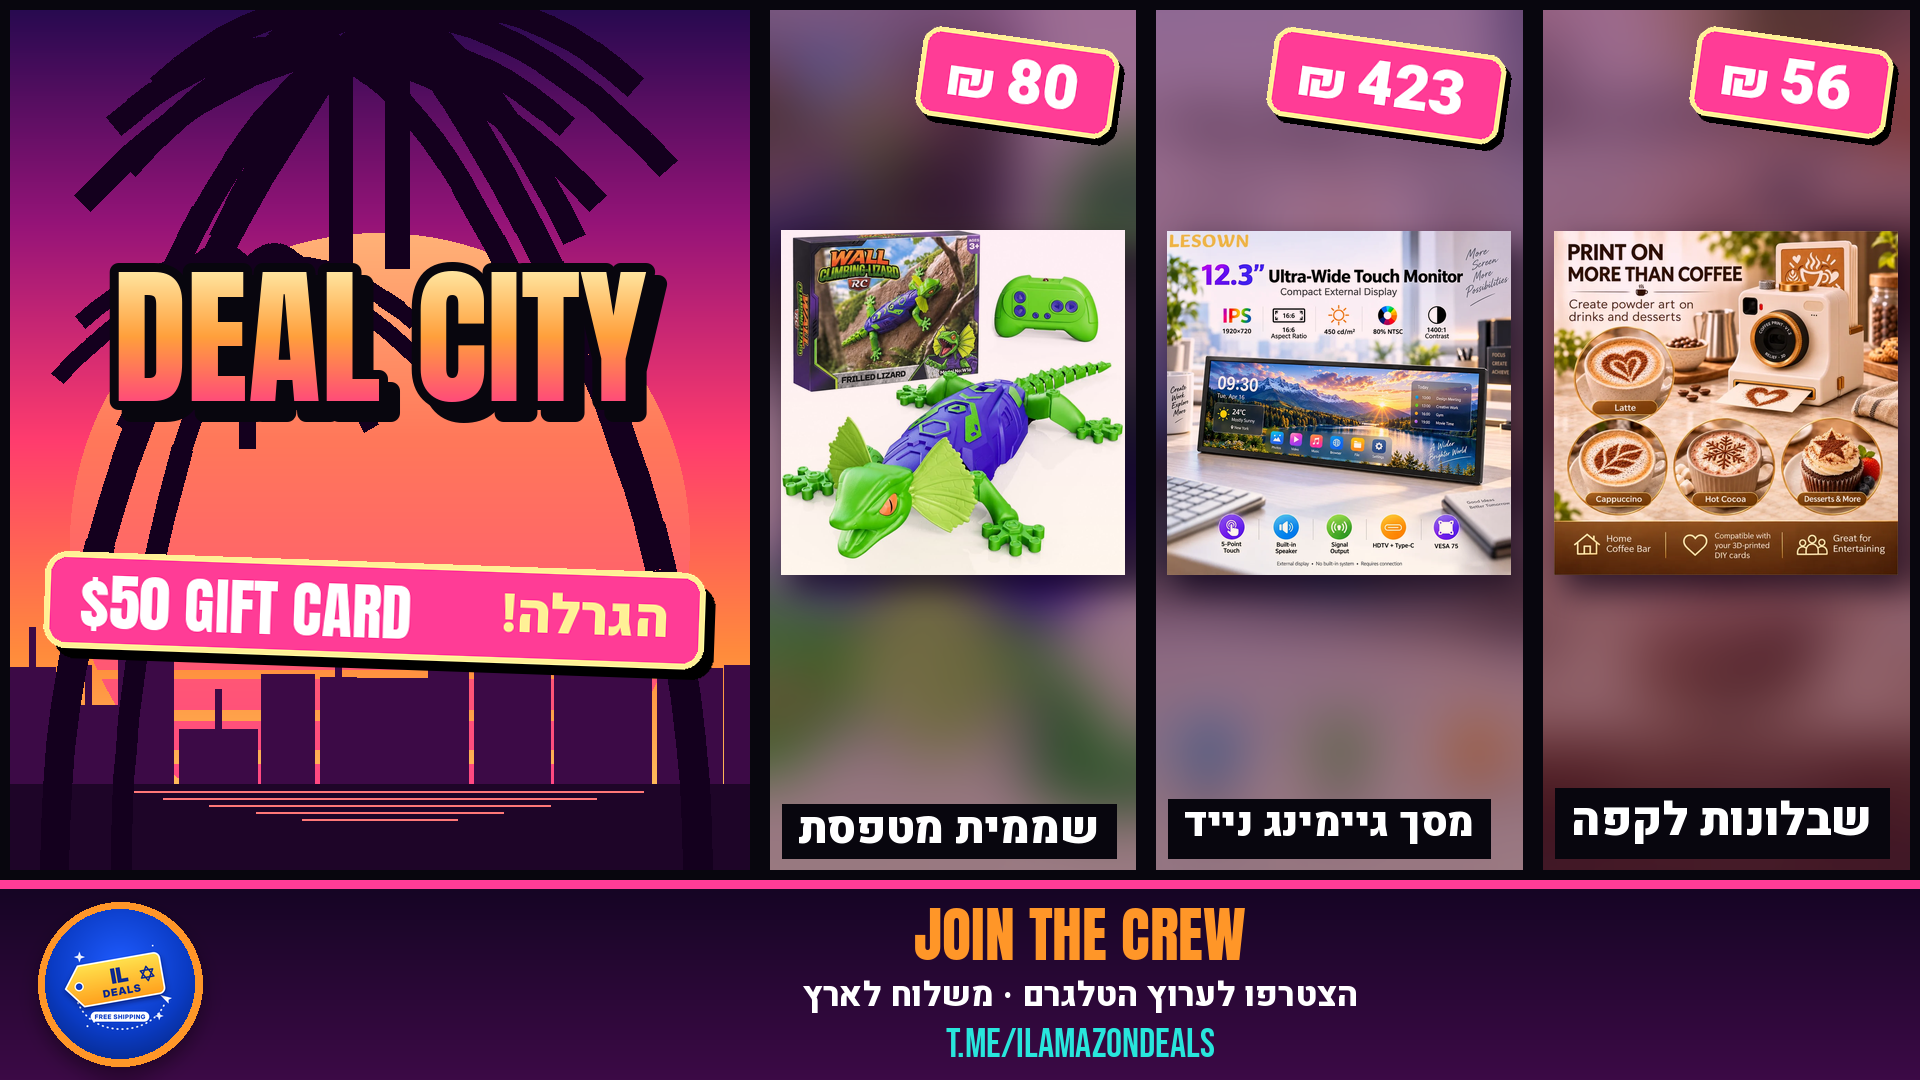
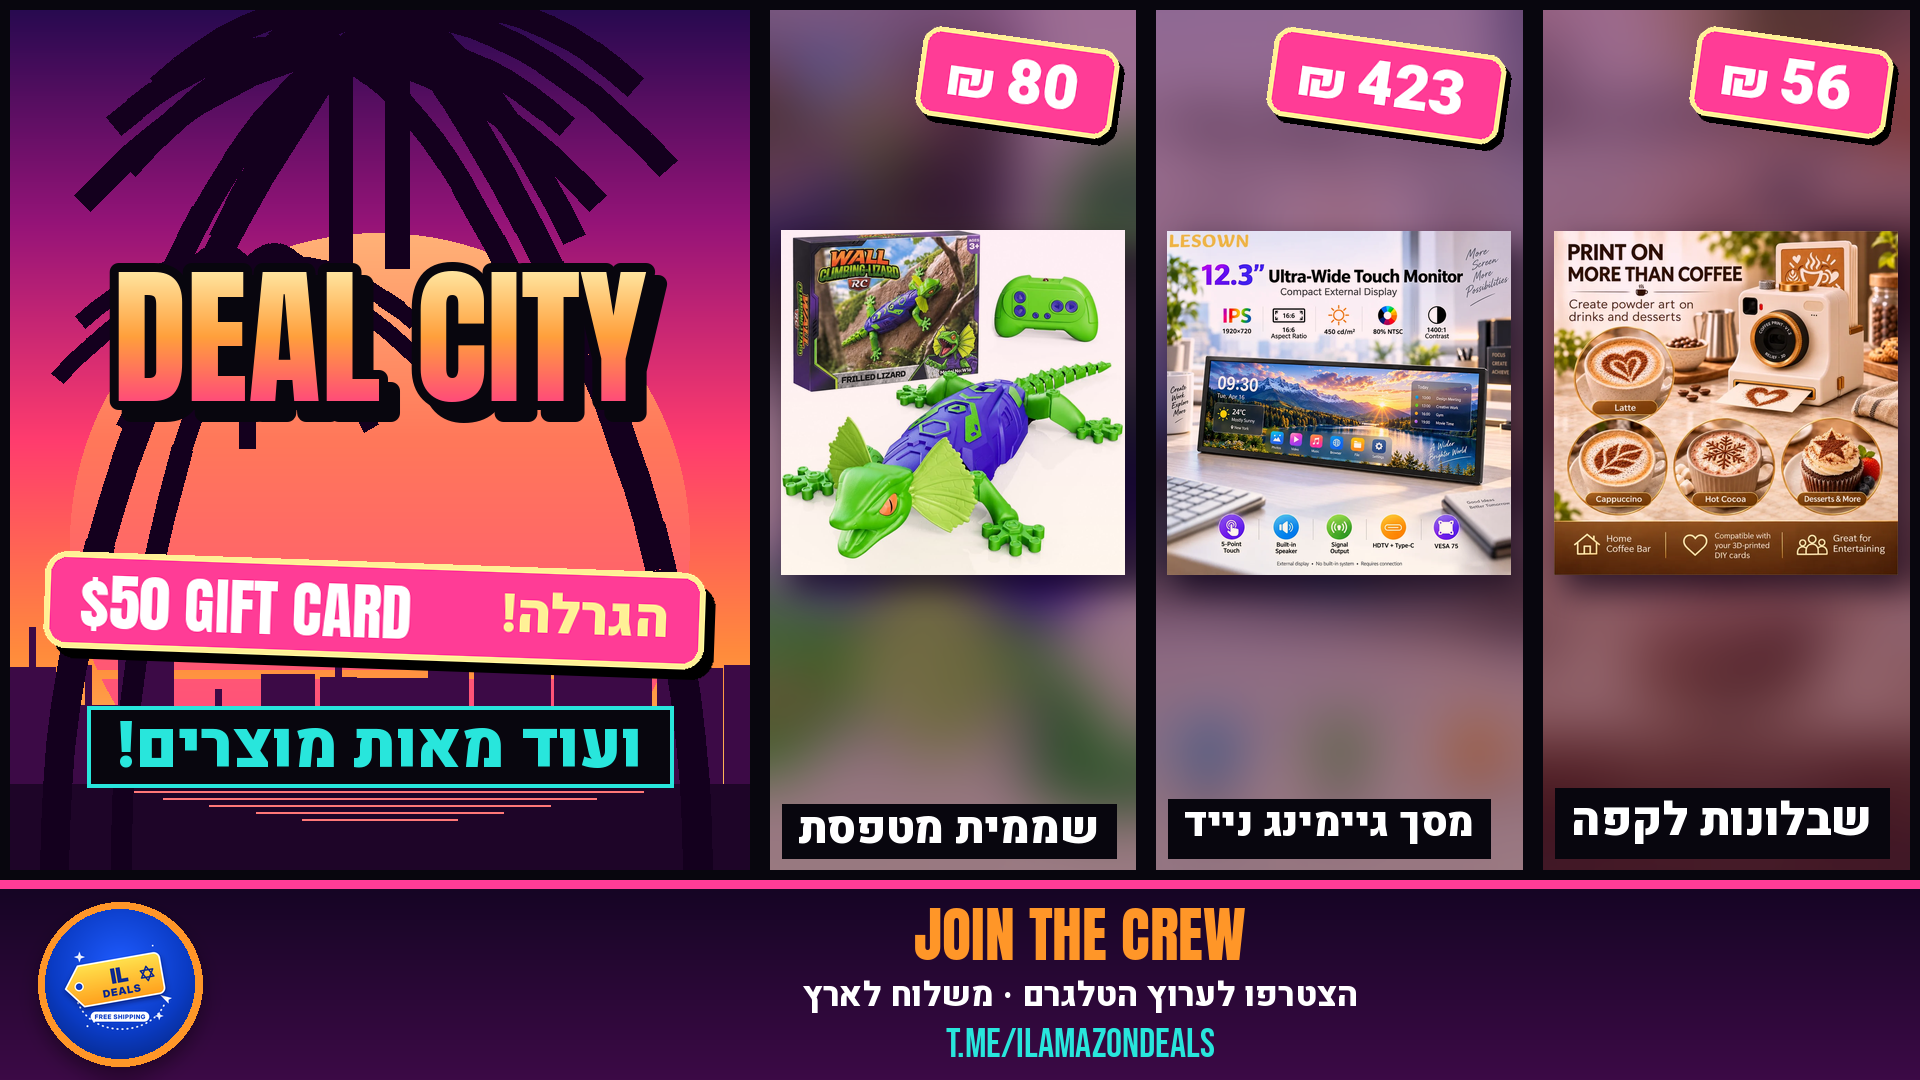
Telegram ad 16:9: add 'ועוד מאות מוצרים'
Claude-Session: https://claude.ai/code/session_01FM8g7pAcu14x6YXkPtTmff

Changed region(s): [[0.0312, 0.6417, 0.375, 0.7333]]

diff --git a/tools/tg_ad_city_wide.py b/tools/tg_ad_city_wide.py
@@ -16,6 +16,13 @@ def main():
     im = Image.new("RGB", (W, H), D.BLACK)
     im.paste(D.title_panel(LW - 2 * G, H - CTA - 2 * G, big=150, sub="."), (G, G))
     giveaway_badge(im, LW / 2, (H - CTA) * 0.70, bw=660)
+    d = ImageDraw.Draw(im)
+    more, fm = "ועוד מאות מוצרים!", F(900, 64)
+    from ad import size
+    mw, mh, _ = size(d, more, fm)
+    my = (H - CTA) * 0.70 + 90
+    d.rectangle([LW / 2 - mw / 2 - 30, my, LW / 2 + mw / 2 + 30, my + mh + 34], fill=D.BLACK, outline=D.TEAL, width=4)
+    text_c(d, LW / 2, my + 15, more, fm, D.TEAL)
     pw = (W - LW) / 3
     P = [("tga_gecko", "שממית מטפסת", 23.93), ("tga_monitor", "מסך גיימינג נייד", 126.69), ("tga_coffee", "שבלונות לקפה", 16.63)]
     for i, (name, he, usd) in enumerate(P):
